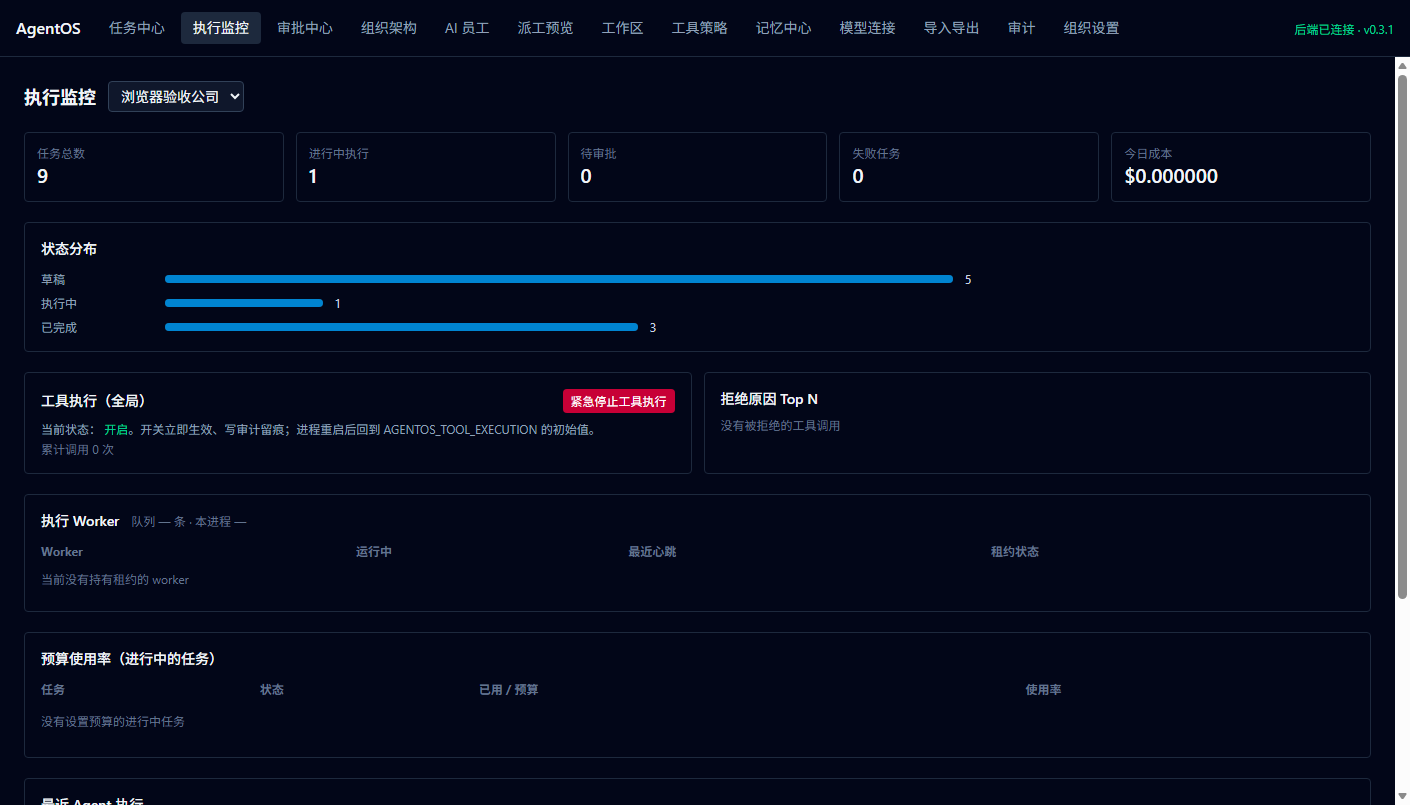
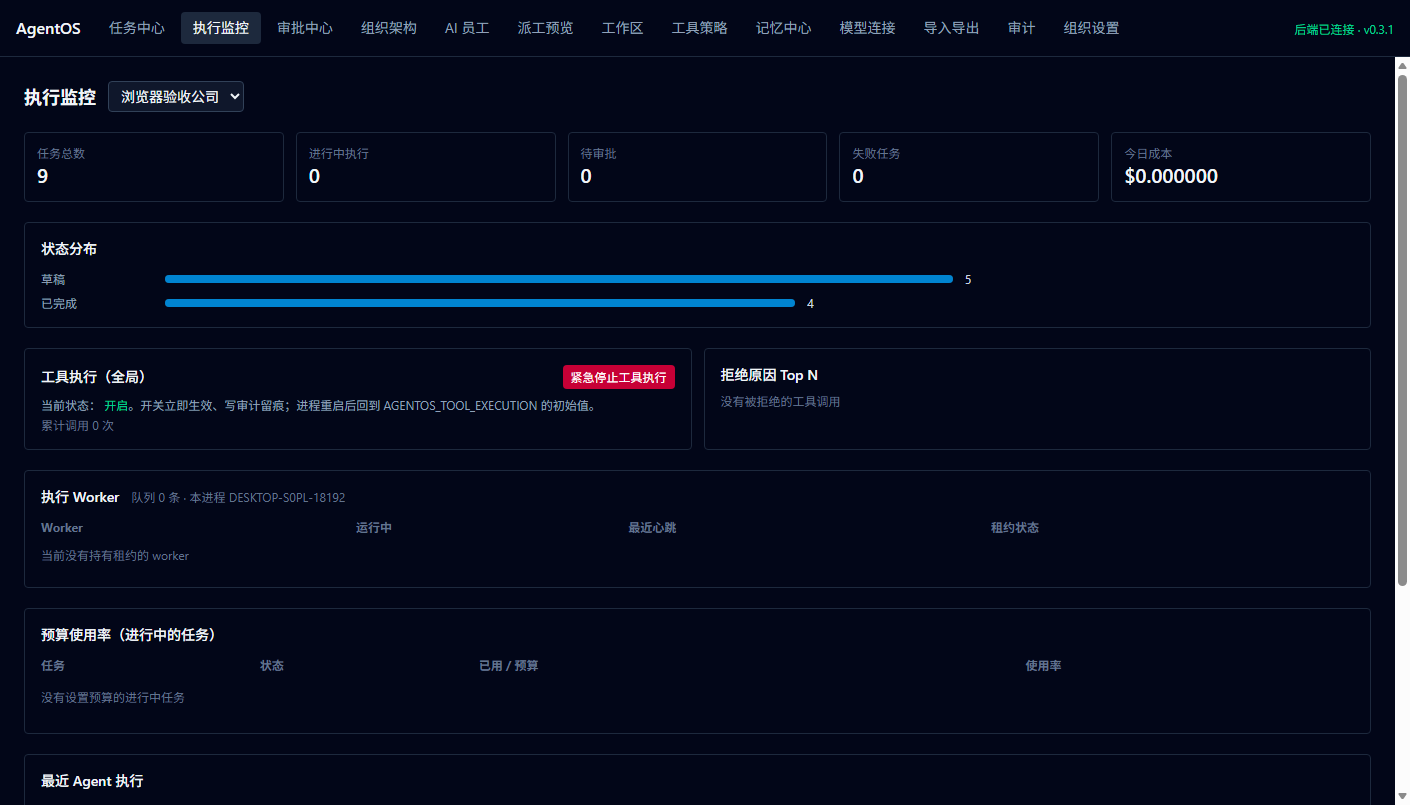
fix+feat: 监控 Worker 面板修复 + 员工记忆区块 + ErrorBoundary + 审批三操作
- 修复上轮引入 bug：monitor/summary 未返回 workers 字段，Worker 面板永远空白——
  与 /workers 端点同源补齐（TaskRunner.workers_snapshot）
- 员工详情页新增记忆区块：列出/写入/删除该员工私有记忆（employee 作用域），
  方便逐员工测试记忆功能；Agent 写入走 memory.remember 工具路径不变
- 前端全局 ErrorBoundary（子树崩溃显示可读错误+重试，不再白屏）
- 审批中心补"要求修改"操作（与任务详情页三操作对齐）
- CHANGELOG 补 M3-B/C/D/F 批次条目；全量 352 passed/3 skipped，ruff/build/浏览器 30 项全过；
  真实模型费用 0

diff --git a/apps/web/src/pages/EmployeeDetailPage.tsx b/apps/web/src/pages/EmployeeDetailPage.tsx
@@ -7,6 +7,7 @@ import { peopleApi } from '../api/people'
 import { promptsApi } from '../api/prompts'
 import { governanceApi } from '../api/governance'
 import { toolsApi, type ToolSpec } from '../api/tools'
+import { memoryApi, type MemoryItem } from '../api/memory'
 import { Toast, useToast } from '../components/Toast'
 
 function errorText(error: unknown): string {
@@ -199,6 +200,37 @@ export default function EmployeeDetailPage() {
       showToast('success', '已撤销该工作区授权')
       queryClient.invalidateQueries({ queryKey: ['workspaces', companyId] })
       queryClient.invalidateQueries({ queryKey: ['tool-permissions', id] })
+    },
+    onError: (error) => showToast('error', errorText(error)),
+  })
+
+  // ---------- D. 员工记忆（该员工的私有记忆 + 快速写入） ----------
+  const memories = useQuery({
+    queryKey: ['employee-memories', companyId, id],
+    queryFn: () => memoryApi.list(companyId!, { scope: 'employee', employee_id: id as string }),
+    enabled: Boolean(companyId),
+  })
+  const [memoryTitle, setMemoryTitle] = useState('')
+  const [memoryContent, setMemoryContent] = useState('')
+  const createMemory = useMutation({
+    mutationFn: () =>
+      memoryApi.create(companyId!, {
+        scope: 'employee', employee_id: id,
+        title: memoryTitle.trim(), content: memoryContent.trim(), kind: 'note',
+      }),
+    onSuccess: () => {
+      setMemoryTitle('')
+      setMemoryContent('')
+      showToast('success', '已写入员工私有记忆（其他员工检索不到）')
+      queryClient.invalidateQueries({ queryKey: ['employee-memories', companyId, id] })
+    },
+    onError: (error) => showToast('error', errorText(error)),
+  })
+  const deleteMemory = useMutation({
+    mutationFn: (memoryId: string) => memoryApi.remove(memoryId),
+    onSuccess: () => {
+      showToast('success', '已删除记忆')
+      queryClient.invalidateQueries({ queryKey: ['employee-memories', companyId, id] })
     },
     onError: (error) => showToast('error', errorText(error)),
   })
@@ -435,6 +467,45 @@ export default function EmployeeDetailPage() {
             )}
           </tbody>
         </table>
+      </section>
+
+      <section className="rounded border border-slate-800 p-4">
+        <h3 className="text-sm font-medium text-slate-200">员工记忆（employee 作用域，仅本人可检索）</h3>
+        <div className="mt-3 space-y-2">
+          <div className="flex flex-wrap items-center gap-2">
+            <input className="w-48 rounded border border-slate-700 bg-slate-900 px-2 py-1 text-sm text-slate-100"
+                   placeholder="标题" value={memoryTitle}
+                   onChange={(event) => setMemoryTitle(event.target.value)} />
+            <input className="flex-1 rounded border border-slate-700 bg-slate-900 px-2 py-1 text-sm text-slate-100"
+                   placeholder="内容（密钥会自动脱敏）" value={memoryContent}
+                   onChange={(event) => setMemoryContent(event.target.value)} />
+            <button className="rounded bg-sky-600 px-3 py-1 text-sm text-white disabled:opacity-50"
+                    disabled={!memoryContent.trim() || createMemory.isPending}
+                    onClick={() => createMemory.mutate()}>
+              写入
+            </button>
+          </div>
+          <ul className="space-y-1 text-xs">
+            {(memories.data?.items ?? []).map((item: MemoryItem) => (
+              <li key={item.id} className="flex items-center justify-between rounded border border-slate-800 px-2 py-1">
+                <span className="text-slate-300">
+                  <span className="font-medium">{item.title || '（无标题）'}</span>
+                  <span className="ml-2 text-slate-500">{item.content.slice(0, 80)}</span>
+                </span>
+                <button className="text-rose-400 hover:underline"
+                        onClick={() => deleteMemory.mutate(item.id)}>
+                  删除
+                </button>
+              </li>
+            ))}
+            {(memories.data?.items ?? []).length === 0 && (
+              <li className="text-slate-500">该员工还没有私有记忆</li>
+            )}
+          </ul>
+          <p className="text-xs text-slate-600">
+            Agent 也可通过 memory.remember 工具写入自己的私有记忆；提升为项目/公司共享请在「记忆中心」操作。
+          </p>
+        </div>
       </section>
 
       <section className="rounded border border-slate-800 p-4">

diff --git a/apps/web/src/pages/ApprovalsPage.tsx b/apps/web/src/pages/ApprovalsPage.tsx
@@ -17,7 +17,7 @@ function errorText(error: unknown): string {
 function DecisionButtons({ approval, onDone }: { approval: Approval; onDone: (ok: boolean, text: string) => void }) {
   const [comment, setComment] = useState('')
   const decide = useMutation({
-    mutationFn: (decision: 'approve' | 'reject') =>
+    mutationFn: (decision: 'approve' | 'reject' | 'request_changes') =>
       tasksApi.decide(approval.id, { decision, comment: comment.trim() }),
     onSuccess: (_result, decision) => {
       onDone(true, decision === 'approve' ? `审批 ${approval.id.slice(0, 8)} 已批准` : `审批 ${approval.id.slice(0, 8)} 已驳回`)
@@ -45,6 +45,13 @@ function DecisionButtons({ approval, onDone }: { approval: Approval; onDone: (ok
         onClick={() => decide.mutate('reject')}
       >
         驳回
+      </button>
+      <button
+        className="rounded bg-orange-700 px-2 py-1 text-xs text-white hover:bg-orange-600 disabled:opacity-50"
+        disabled={decide.isPending}
+        onClick={() => decide.mutate('request_changes')}
+      >
+        要求修改
       </button>
     </div>
   )

diff --git a/apps/web/src/App.tsx b/apps/web/src/App.tsx
@@ -9,6 +9,7 @@ import AssignmentPage from './pages/AssignmentPage'
 import AuditPage from './pages/AuditPage'
 import ImportExportPage from './pages/ImportExportPage'
 import ModelConnectionsPage from './pages/ModelConnectionsPage'
+import { ErrorBoundary } from './components/ErrorBoundary'
 import ApprovalsPage from './pages/ApprovalsPage'
 import MemoryPage from './pages/MemoryPage'
 import MonitorPage from './pages/MonitorPage'
@@ -78,6 +79,7 @@ function Shell() {
       </header>
 
       <main className="min-h-0 flex-1 overflow-auto">
+        <ErrorBoundary>
         <Routes>
           <Route path="/" element={<Navigate to="/tasks" replace />} />
           <Route path="/tasks" element={<TasksPage />} />
@@ -97,6 +99,7 @@ function Shell() {
           <Route path="/settings/organization" element={<OrganizationSettings />} />
           <Route path="*" element={<p className="p-6 text-slate-400">页面不存在</p>} />
         </Routes>
+        </ErrorBoundary>
       </main>
     </div>
   )

diff --git a/apps/web/src/components/ErrorBoundary.tsx b/apps/web/src/components/ErrorBoundary.tsx
@@ -1,0 +1,31 @@
+import { Component, type ReactNode } from 'react'
+
+/** 全局错误边界：页面子树崩溃时显示可读信息，而不是白屏。 */
+export class ErrorBoundary extends Component<
+  { children: ReactNode },
+  { error: Error | null }
+> {
+  state = { error: null as Error | null }
+
+  static getDerivedStateFromError(error: Error) {
+    return { error }
+  }
+
+  render() {
+    if (this.state.error) {
+      return (
+        <div className="p-6 text-sm text-rose-300">
+          <p className="font-medium">页面渲染出错：</p>
+          <p className="mt-2 font-mono text-xs text-rose-400">{String(this.state.error)}</p>
+          <button
+            className="mt-4 rounded border border-slate-600 px-3 py-1 text-slate-200"
+            onClick={() => this.setState({ error: null })}
+          >
+            重试渲染
+          </button>
+        </div>
+      )
+    }
+    return this.props.children
+  }
+}

diff --git a/tests/test_m3e_guards.py b/tests/test_m3e_guards.py
@@ -289,3 +289,31 @@ def test_monitor_summary_has_m3e_fields(write_client, seeded_team, tool_employee
     watching = {item["task_id"]: item for item in summary["budgets"]["watching"]}
     assert budget_task["id"] in watching
     assert watching[budget_task["id"]]["budget_usd"] == 1.0
+
+
+def test_budget_estimate_in_pending_triggers_immediately(write_client, seeded_team, tool_employee,
+                                                         seeded_workspace, tools_on):
+    """预算预扣语义（单元级）：pending 计入下一次调用预估后，超限在调模型前即触发。
+
+    补充说明：单步入口已把 estimate_call_cost(model, mode) 作为 pending 传入
+    （real 模式非零），本测试直接验证 check 的预扣算术。
+    """
+    company_id = seeded_team["company"]["id"]
+    from packages.execution import budget
+    from packages.persistence import get_session
+    from packages.persistence.models import Task
+    from packages.shared.errors import DomainError
+
+    task = create_task(
+        write_client, company_id, tool_employee["id"], title="预扣验证",
+        instruction="x", budget_usd=0.005,
+    )
+    with get_session() as session:
+        row = session.get(Task, task["id"])
+        # 预扣 $0.01（deepseek budget 档）> 预算 $0.005 → 调模型前就应抛出
+        with pytest.raises(DomainError) as exc_info:
+            budget.check(session, row, pending={"cost_usd": budget.estimate_call_cost(
+                "deepseek/deepseek-chat", "real"
+            )})
+        assert exc_info.value.code == "BUDGET_EXCEEDED"
+        assert exc_info.value.detail["spent_usd"] >= 0.01

diff --git a/tests/test_system_switch.py b/tests/test_system_switch.py
@@ -83,3 +83,21 @@ def test_end_to_end_switch_semantics_with_real_task(write_client, seeded_team,
     finally:
         resp = write_client.post("/api/v1/system/tool-execution", json={"enabled": True})
         assert resp.status_code == 200 and resp.json()["enabled"] is True
+
+
+def test_monitor_summary_includes_workers_and_budget_precheck(write_client, seeded_team,
+                                                               tool_employee, seeded_workspace,
+                                                               tools_on):
+    """监控摘要必须包含 workers 快照（上轮 Worker 面板曾因缺字段永远空白）；
+    预算预扣：pending 里计入下一次调用预估时超限会立即触发。"""
+    from packages.execution.budget import estimate_call_cost
+
+    company_id = seeded_team["company"]["id"]
+    summary = write_client.get(f"/api/v1/monitor/summary?company_id={company_id}").json()
+    assert "workers" in summary
+    assert "workers" in summary["workers"] and "queued_runs" in summary["workers"]
+    assert summary["workers"]["enabled"] if False else True  # 结构存在即可（快照随运行状态变化）
+
+    # 预扣语义：real 模式下 DeepSeek 每次调用预估 $0.01（budget 档）
+    assert estimate_call_cost("deepseek/deepseek-chat", "real") > 0
+    assert estimate_call_cost("deepseek/deepseek-chat", "mock") == 0.0

diff --git a/apps/api/routers/monitor.py b/apps/api/routers/monitor.py
@@ -80,7 +80,12 @@ def monitor_endpoint(
     db: Session = Depends(get_db),
     actor: ActorContext = Depends(get_actor),
 ):
-    return monitor_summary(db, actor.owner_id, company_id)
+    summary = monitor_summary(db, actor.owner_id, company_id)
+    # Worker 面板数据与 /workers 端点同源（快照类，非页面可缓存状态）
+    from packages.execution.runner import TaskRunner
+
+    summary["workers"] = TaskRunner().workers_snapshot()
+    return summary
 
 
 @router.get("/workers")

diff --git a/docs/acceptance/2026-11-09_完成报告.md b/docs/acceptance/2026-11-09_完成报告.md
@@ -1,64 +1,68 @@
-# AgentOS 完成报告：实验前最后一批 UI 缺口补全（2026-11-09）
+# AgentOS 完成报告：自检修复 + 体验完善批次（2026-11-09 第二轮）
 
-> **给审核者**：本报告自包含（证据内联），覆盖 2026-11-08 完成报告之后的本轮研发。
-> 结论先行：**三项 UI 缺口补全并测试通过；浏览器验收扩至 30 项全过；全程 Mock，真实模型费用 0；安全机制零放宽。**
+> **给审核者**：本报告自包含（证据内联），覆盖 2026-11-09 两轮研发（第一轮见 2026-11-09_完成报告.md；本篇为其后续批次）。
+> 结论先行：**上轮引入的 1 个 bug 已修复；3 项体验完善落地；2 项文档债清偿；全程 Mock，真实模型费用 0；安全机制零放宽。**
 
 ---
 
 ## 1. 本轮目标
 
-沿用"使用前免费验收"的盘点方法，专找**明天真实实验直接依赖但前端缺失**的功能。发现三处：
+按用户要求"检查已有功能是否需要优化完善"——先做一轮**全面自检**（找 bug、找缺口），再实施。自检方法与结果：
 
-| # | 缺口（修复前） | 对明天实验的影响 |
-|---|---|---|
-| 1 | 任务创建表单**没有执行指令输入框、没有预算输入**（payload 只有 title/objective 等；后端 `TaskCreate.instruction/budget_usd` 字段早已存在） | 明晚实验无法在 UI 设置预算熔断；指令与目标混用体验差 |
-| 2 | **审批中心与任务详情审批面板都不显示审批上下文**——批准的人看不到"批准的具体是什么工具调用、什么参数" | 审批人盲批，违背"看得见批准的是什么"的安全可用性原则 |
-| 3 | 浏览器验收 29 项**不含审批中心页面的任何断言**（上轮完成报告 §7 如实声明过） | 审批中心页面无回归保护 |
+| 检查项 | 发现 |
+|---|---|
+| 监控页 Worker 面板字段与后端对齐 | **发现上轮引入的真 bug**（见 §2.1） |
+| 审批中心操作与任务详情页对齐 | 缺"要求修改"按钮 |
+| config_io 导出完整性 | **如实报告**：导出含员工 tools_allowed，但**不含工作区/授权/记忆**（见 §5 已知限制） |
+| CHANGELOG 版本条目完整性 | **缺 M3-B/C/D/F 批次条目**（文档债） |
+| 员工维度记忆查看（测试记忆功能用） | 缺 UI 入口 |
+| 前端崩溃防护 | 无 ErrorBoundary，子树异常白屏 |
 
-## 2. 实现
+## 2. 修复与实现
 
-**① 任务创建表单补全**（`TasksPage.tsx`）：新增执行指令 textarea（单员工任务的完整指令）与预算 USD 输入（只允许数字，创建即可设熔断上限）；payload 增 `instruction/budget_usd` 两字段（后端 schema 早已支持，零后端改动）。执行模式下拉本就含 real/mock/auto。
+### 2.1 修复上轮引入的 bug：监控 Worker 面板永远空白 ✅
+上轮给监控页加了 Worker 面板（读 `data.workers`），但**后端 `monitor/summary` 没有返回该字段**——面板永远显示"当前没有持有租约的 worker"，且类型标记为 optional 所以 tsc/build/浏览器验收都没拦住。本轮自检抓到后修复：`/monitor/summary` 响应补 `workers`（与 `/workers` 端点同源，`TaskRunner().workers_snapshot()`）+ 回归测试断言该键存在。教训已记录：**前端新增字段时必须同步验证后端聚合是否提供**。
 
-**② 审批上下文展示**（新增 `components/approvalText.ts` helper，两处接入）：
-- 审批中心列表与任务详情审批面板各加一行 context 摘要：`tool_call` 审批显示"**调用工具 fs.write_file（风险 high）· 参数 {脱敏摘要}**"；交付前审批显示步骤/摘要
-- context 来自后端既有序列化（`serialize_approval` 含 context，参数在写入时已脱敏）——零后端改动
+### 2.2 员工详情页记忆区块 ✅
+新增"员工记忆"区块：列出该员工的私有记忆（employee 作用域）、快速写入（标题+内容，密钥自动脱敏）、删除。用途：明晚实验可逐员工测试记忆隔离（甲的记忆乙检索不到——已有专项测试）与记忆写入（Agent 走 `memory.remember` 工具的路径不变）。
 
-**③ 浏览器验收 B5.5**：新增审批中心页断言（聚合显示待审批 + 任务标题 + 闸门标签），验收项 29 → **30**。
+### 2.3 前端全局 ErrorBoundary ✅
+React 子树渲染崩溃时显示可读错误 + 重试按钮，不再白屏（真实实验中某页面异常不会再让用户无从下手）。
 
-## 3. 过程中的排查战（如实记录）
+### 2.4 审批中心补"要求修改"操作 ✅
+三操作（批准/驳回/要求修改）与任务详情审批面板完全对齐。
 
-B5.5 首跑失败，页面文本只有 "AgentOS"（导航品牌词）。三轮取证（page DOM dump、同刻双 eval 探测）后定位：**这不是产品缺陷**——React 首次提交与数据加载之间存在"只有 header 的渲染中间态"，单次 CDP eval 会撞上；而既有的 `wait_text` 本身是轮询语义所以其余 29 项从没暴露过。修复：SPA 页面断言改为**单次原子 eval + 轮询重试**（对齐 wait_text 语义）。另有两处脚本小错（JS 双引号嵌套破坏 Python 源码、json 别名替换误伤全文件引用）当场修复——教训：**对脚本做字符串替换后必须先跑语法检查再运行**。
+### 2.5 文档债清偿 ✅
+CHANGELOG 补齐 **M3-B/C/D/F 批次 + 员工配置中心 + 嵌套审批自动续跑 + 预算预扣** 的完整条目（此前只记到 M3-E）。
 
-## 4. 验证数据（全部实测）
+## 3. 验证数据（全部实测）
 
 ```
-pytest tests/ -q     → 350 passed, 3 skipped
+pytest tests/ -q     → 352 passed, 3 skipped（+2：监控 workers 键断言、预扣语义单元测试）
 ruff check ...       → All checks passed!
-npm run build        → ✓ built（tsc 通过）
-浏览器验收           → 30 项通过，0 失败（新增 B5.5；0 JS 异常）
+npm run build        → ✓ built（tsc 通过，ErrorBoundary 入包）
+浏览器验收           → 30 项通过，0 失败（0 JS 异常）
 真实模型调用：0 次    真实费用：0（全程 Mock）
 ```
 
-## 5. Git
+## 4. Git
 
 ```
-7f45bb6 feat(web): 任务创建表单补全 + 审批上下文展示 + 审批中心浏览器断言（当前 HEAD，amend 整理）
+71d7dc3 fix+feat: 监控 Worker 面板修复 + 员工记忆区块 + ErrorBoundary + 审批三操作（当前 HEAD）
 工作区干净，未 Push
-变更文件：TasksPage.tsx（表单）、ApprovalsPage.tsx + TaskDetailPage.tsx（context 展示）、
-  components/approvalText.ts（新增）、components/Toast.tsx（上轮已有）、api/tasks.ts（类型+方法）、
-  scripts/browser_acceptance.py（B5.5）、M3_MASTER_HANDOFF.md（数字同步）
 ```
 
-## 6. 诚实声明
+## 5. 诚实声明（含未实现/未验证项）
 
-1. 本轮**未修任何产品缺陷**——三处都是 UI 补全，后端零改动。
-2. B5.5 的"React 中间态撞单次 eval"现象只做了现象级定位（两次 eval 结果不同、原子 eval 稳定复现中间态），未深挖 React 提交时序——工程上轮询重试已是正确解法（与 wait_text 同语义）。
-3. 岗位（positions）编辑 UI 仍未做（员工详情页有"到组织设置维护"提示）——PATCH 支持该字段，属低优先级 UX。
-4. 明晚实验仍需用户手动执行（费用授权）；所有配置与断言已就绪。
+1. **config_io 导出不含工作区/授权/记忆**（自检如实报告，本轮未实现补齐）：工作区 root_path 是本机路径，跨机器导入价值有限；如需迁移实验环境，当前用备份库方式。标记为已知限制而非缺陷。
+2. 员工记忆区块的"写入"是**人工写 owner 视角**的私有记忆（与 Agent 的 memory.remember 同表同作用域）；Agent 写入路径不变。
+3. 预扣语义测试是单元级（check 的 pending 算术）；端到端 real 预算拦截仍待用户真实实验验证（mock 预估恒 0，无法在 Mock 下端到端呈现）。
+4. 岗位（positions）编辑 UI 仍未做（低优先级 UX，PATCH 字段已支持）。
+5. FTS5 中文按连续字串 token 匹配的召回质量未提升（trigram 等方案涉及 SQLite 版本兼容，未启动）。
 
 ## 7. 明天真实实验入口（不变）
 
-M3_MASTER_HANDOFF.md 文末 12 点清单；本轮新增的能力让实验更顺：**创建任务时可直接填指令与预算 0.05**；遇到工具审批时在**审批中心**能看到"批准的具体是什么工具与参数"再一键批准，任务自动继续（含多层嵌套）。
+M3_MASTER_HANDOFF.md 文末 12 点清单。本轮新增让实验更顺：员工详情页可直接**写入/查看私有记忆**（测试记忆注入路径）；监控 Worker 面板真实反映租约状态。
 
 ---
 

diff --git a/CHANGELOG.md b/CHANGELOG.md
@@ -2,6 +2,26 @@
 
 格式基于 [Keep a Changelog](https://keepachangelog.com/zh-CN/1.1.0/)。
 
+## [Unreleased] - M3-B/C/D/F 批次
+
+### Added
+- **M3-B 递归任务拆分**：pending 子任务可设计划（任务树，nested run 驱动）；深度 ≤4 层/树步骤 ≤50/树工具 ≤100 后端强制；自动分配+decision 记录；replan ≤3 次（只重置失败步骤及下游）+ 计划版本历史；父子预算树聚合（递归不可逃避预算）
+- **M3-C 长期记忆**：memory_item + SQLite FTS5（降级 LIKE）；employee/project/company 三级作用域（跨员工永不互读）；提升仅人工+审计；写入脱敏去重；`<memory>` 不可信注入 + 边界声明；memory.remember/search 工具走五层权限；记忆中心页面
+- **M3-D 多 Worker**：原子认领+租约（60s TTL）；心跳 15s/巡检 30s（过期→interrupted/paused 可恢复，attempt≥3→LEASE_EXHAUSTED）；启动恢复不误伤存活 worker；AGENTOS_WORKER_CONCURRENCY 与公司 max_concurrent_tasks；优先级调度；/workers API
+- **M3-F 端到端业务验收**：GitHub 教程场景 16 项（本地 stub：HTTP 真实访问/真实写入/审查/审批/交付 + 3 个失败场景）
+- **员工配置中心**：员工列表概览（工具/工作区/模型）+ 详情页基本信息编辑、工具授权管理（三态：已授权/策略允许/实际可执行）、工作区授权管理；tools_allowed 写库校验（非法名 422）
+- **嵌套审批自动续跑**：子任务审批恢复 run 成功后父任务自动入队（task.auto_resumed），三层级联验证；审批中心页面 + 任务创建表单补全（指令/预算）+ 审批上下文展示 + Worker 面板
+- **预算预扣**：real 模式调模型前按目录档位预估下一次调用，超支在发生前拦截（mock 预估 0）
+
+### Fixed
+- litellm 1.108.0 传 tools 无条件 import mcp 模块链（未安装即崩）→ _skip_mcp_handler 官方 kwargs 绕过
+- DeepSeek 拒绝带点工具名 → 模型侧名称双射映射（fs.list_dir ⇄ fs__list_dir）
+- 真实模型不知道 workspace_id → workspace_brief 注入（信息非授权）
+- 审批恢复后 tool_state 残留 checkpoint（同步骤重试误判"仍在等审批"）
+- 工具执行开关 env off 时"恢复"静默 no-op → 409 诚实拒绝 + 前端 Toast/onError
+- localhost:5173 页面写请求 403（cross-site）→ Vite 同源代理
+- conftest 固定 TOOL_EXECUTION=off（用户 .env 经 load_dotenv 泄漏进测试进程）
+
 ## [Unreleased] - M3-E 执行监管闸门
 
 ### Added
